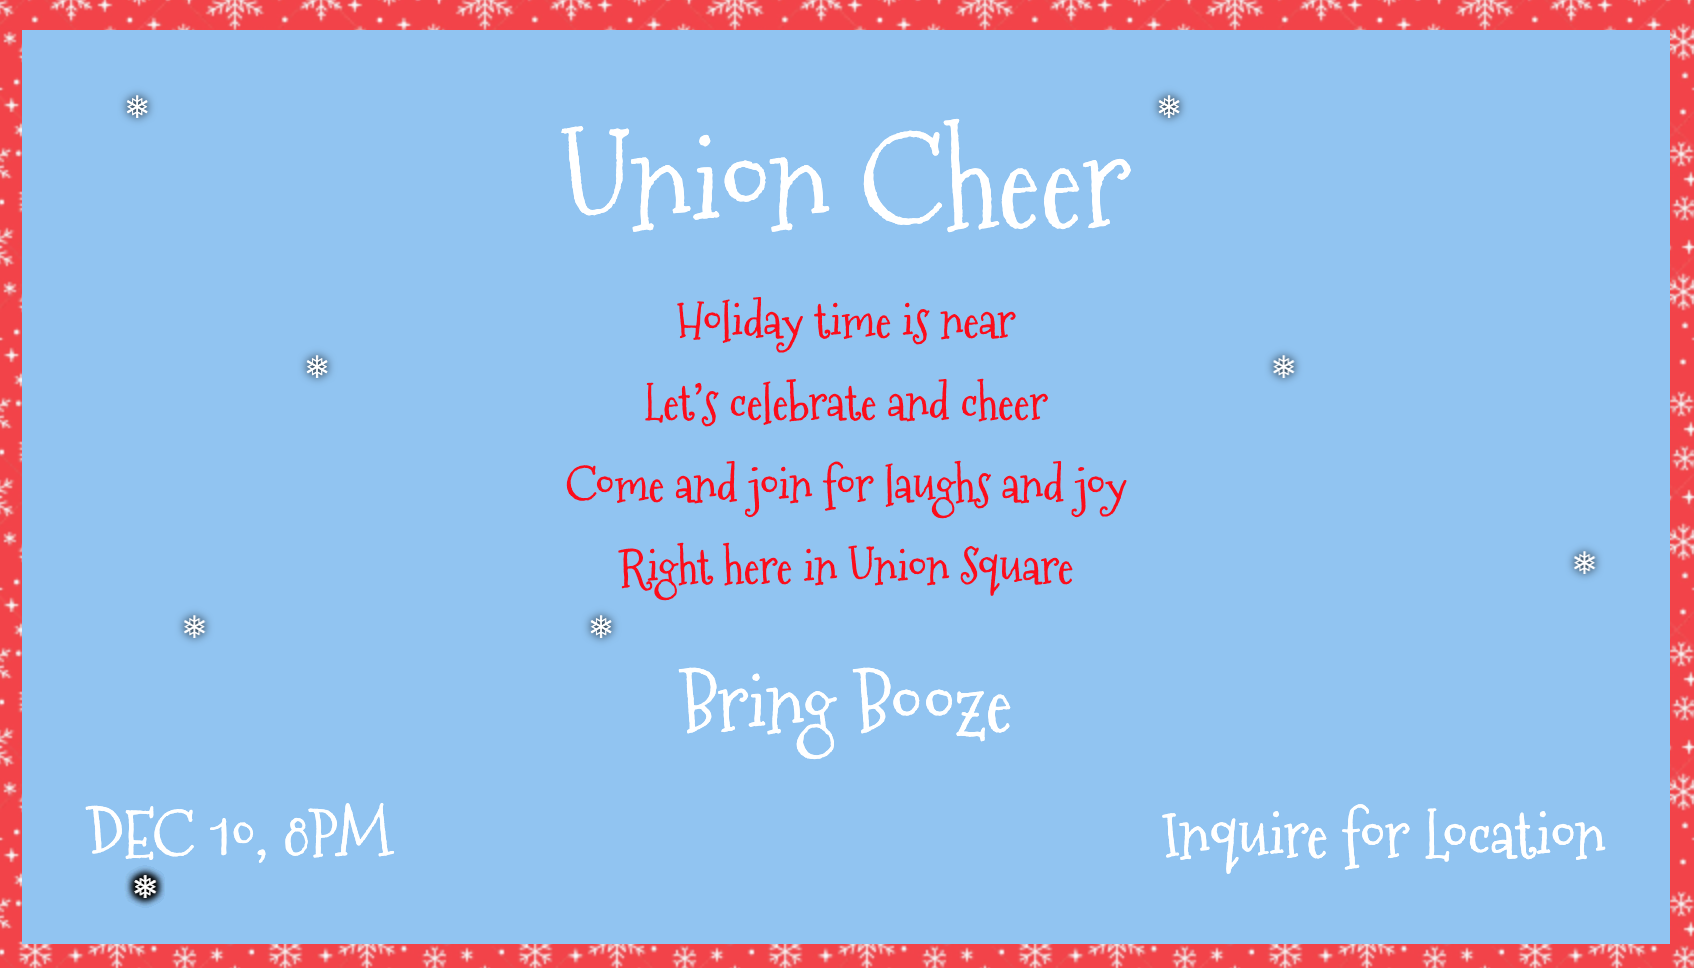
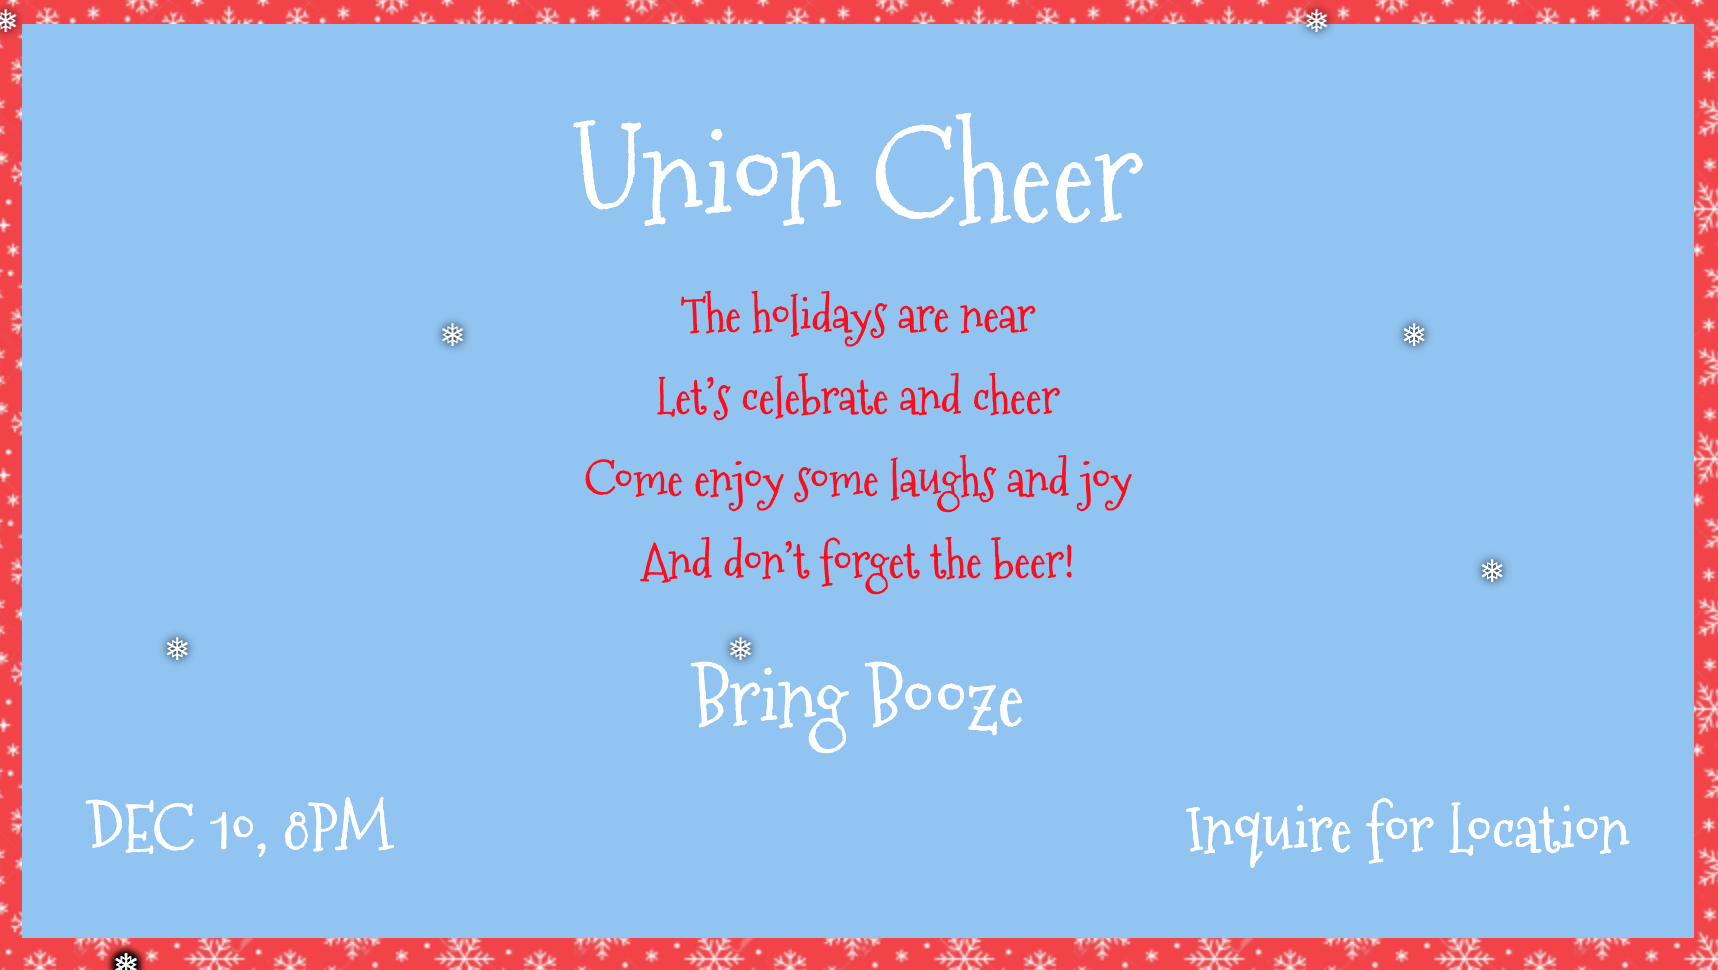
update rhyme

diff --git a/index.html b/index.html
@@ -26,10 +26,10 @@
   <body>
     <div class="container">
       <p class="title">Union Cheer</p>
-      <p class="subtitle">Holiday time is near</p>
+      <p class="subtitle">The holidays are near</p>
       <p class="subtitle">Let’s celebrate and cheer</p>
-      <p class="subtitle">Come and join for laughs and joy</p>
-      <p class="subtitle">Right here in Union Square</p>
+      <p class="subtitle">Come enjoy some laughs and joy</p>
+      <p class="subtitle">And don’t forget the beer!</p>
       <p id="countdown"></p>
       <div class="booze text">Bring Booze</div>
       <div class="when-where">
